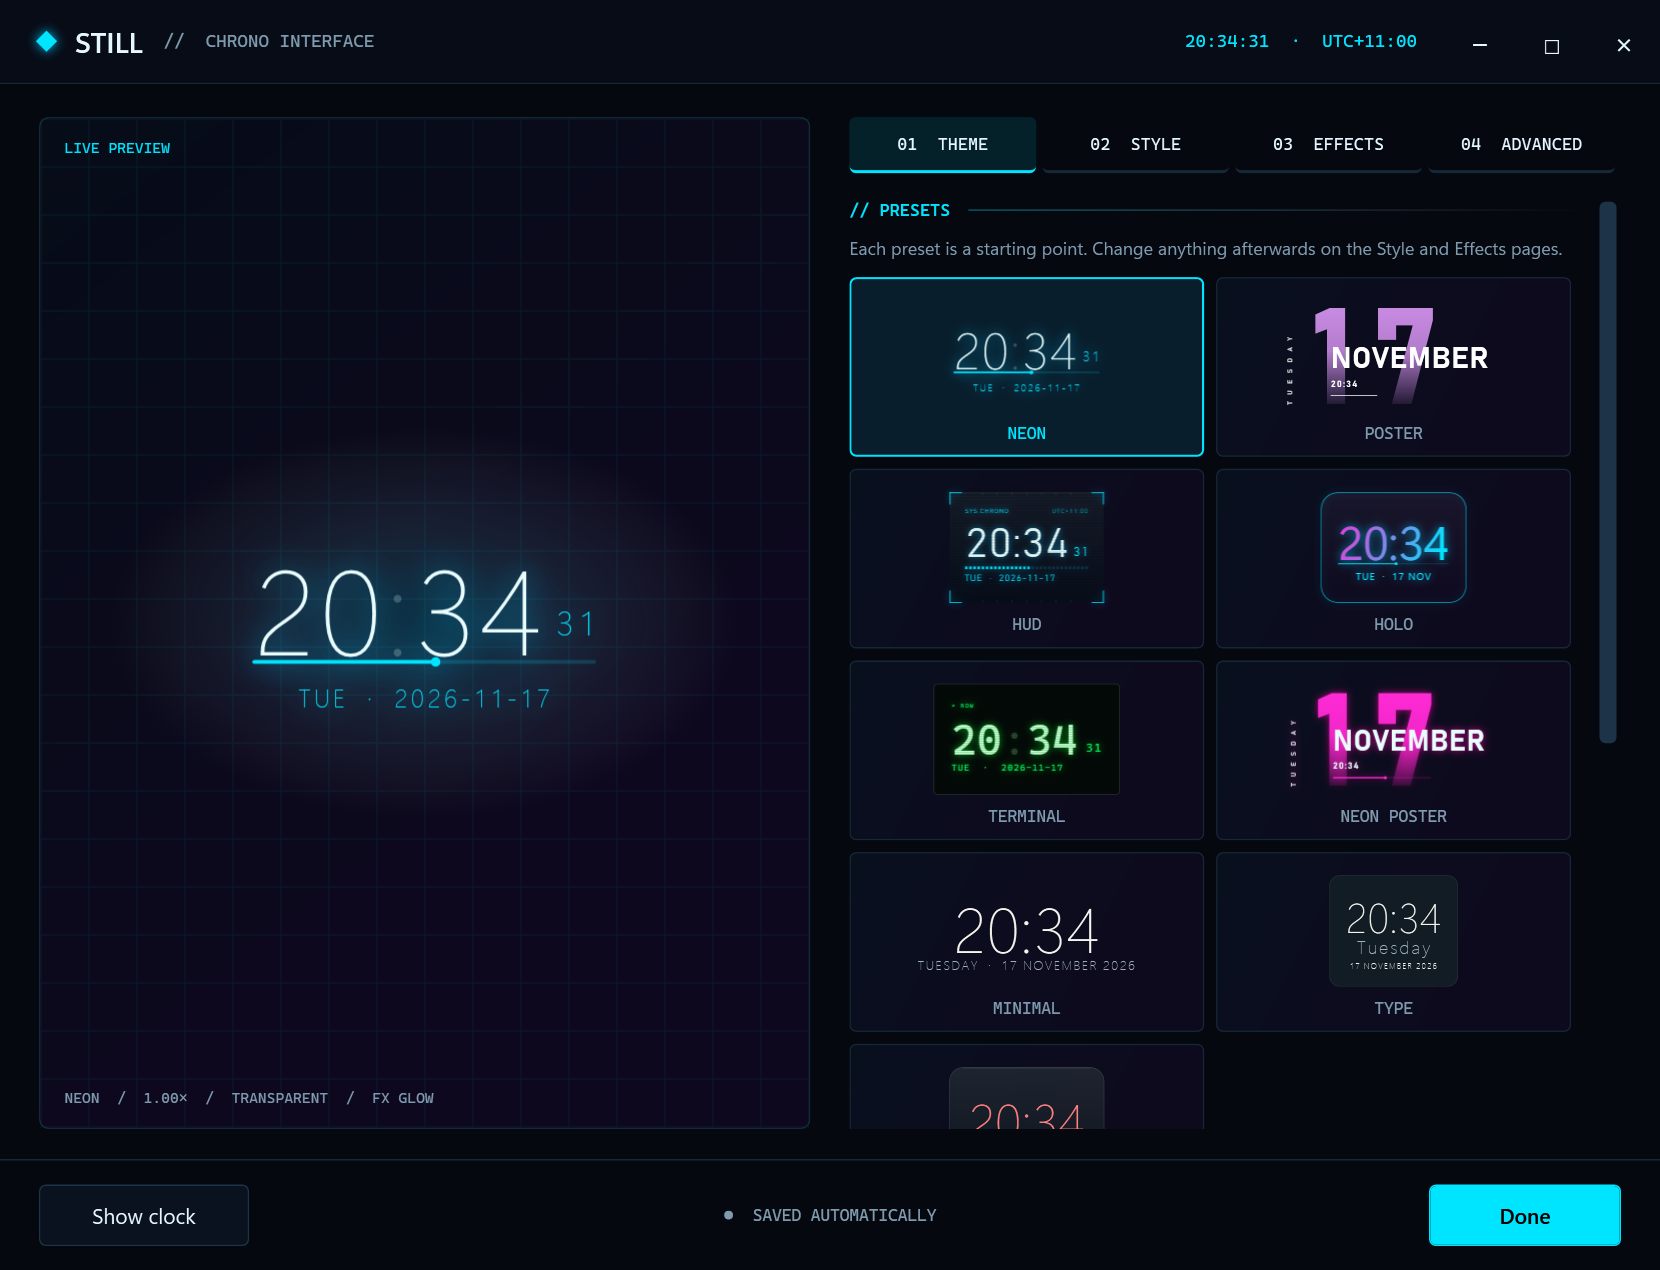
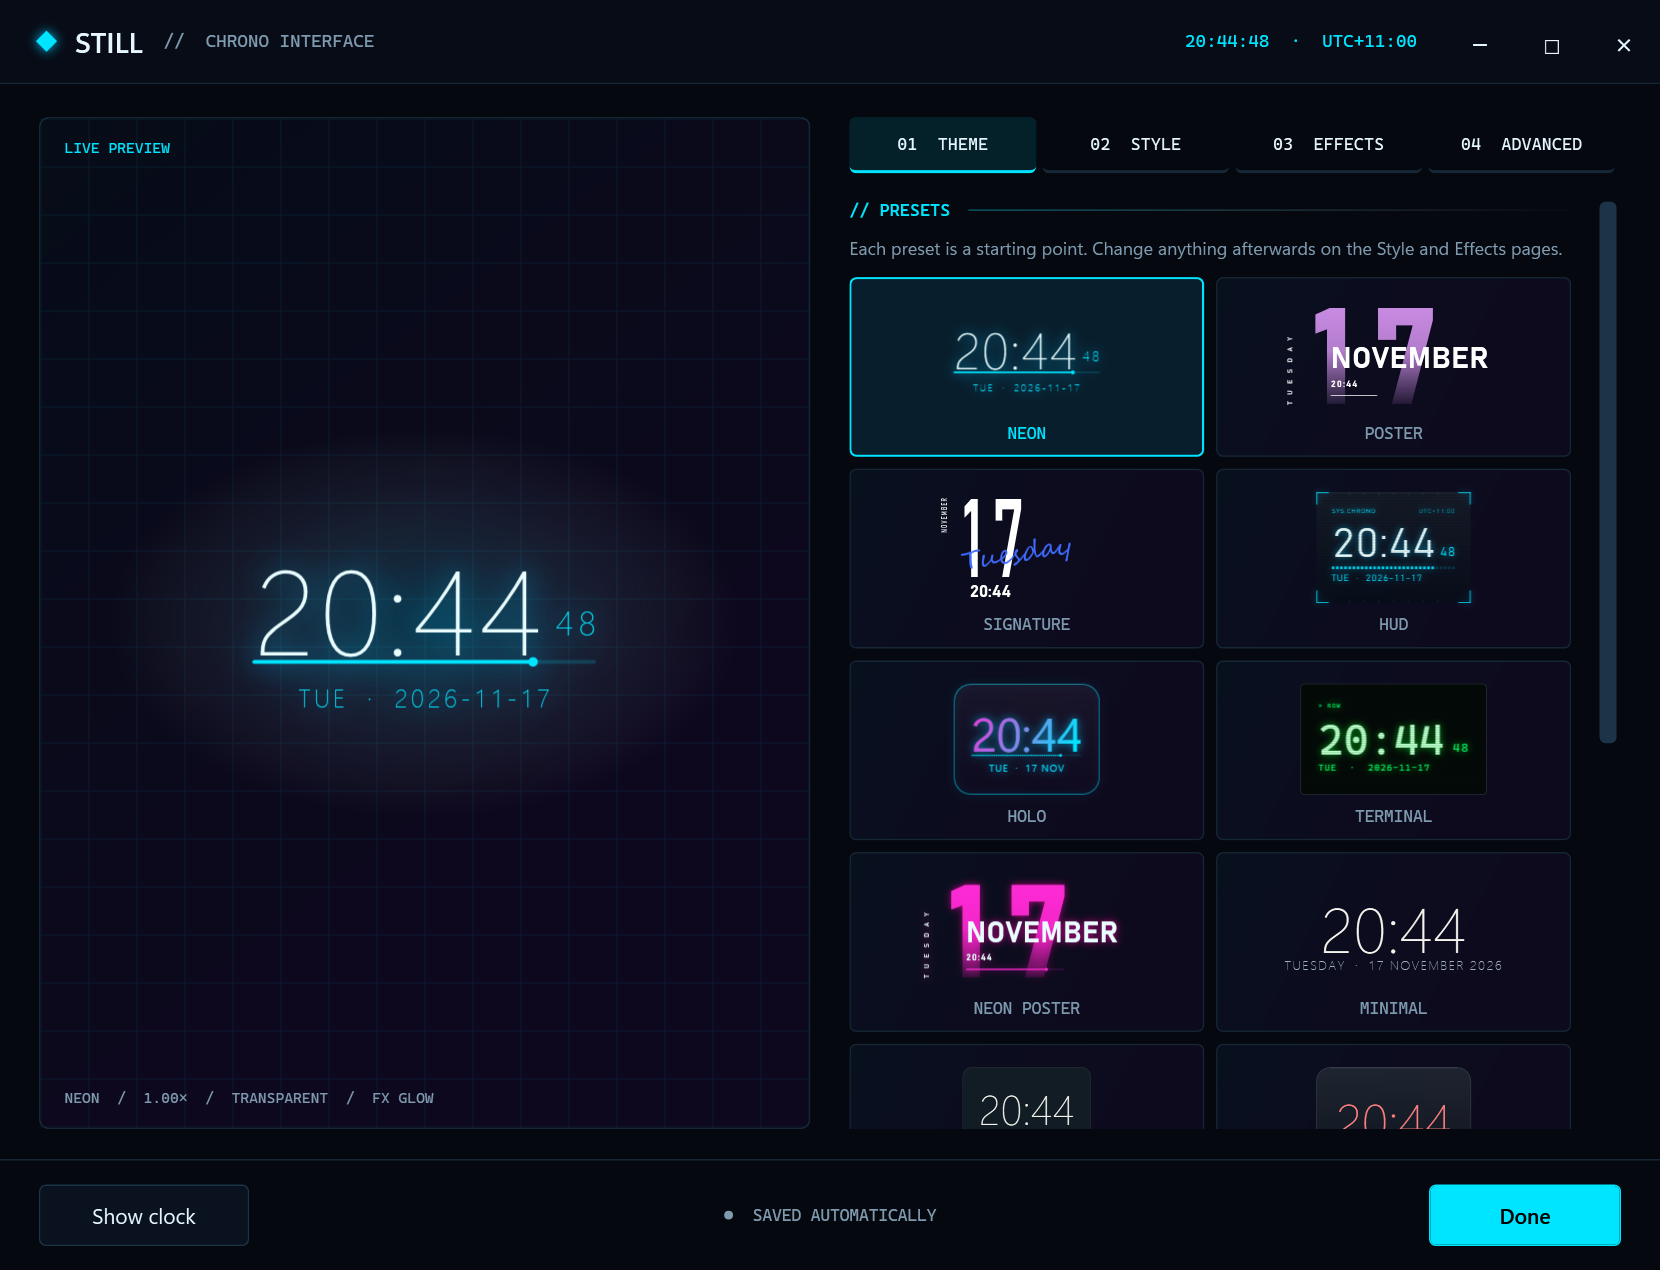
Add Script layout and Signature preset (2.2.0)
- New Script layout: a tall day number narrowed by a horizontal scale (works
  with any font), the month rotated up its side, a handwritten weekday drawn
  across the number at a slight angle, and a bold time centred beneath, with
  an optional seconds indicator under it.
- New ScriptFont and Condense settings, normalized safely, with controls on
  the Style page; handwriting fonts installed with Windows are listed first.
- Add the Signature preset and a test for it; 30 tests pass.
- Bump to 2.2.0; update README, release notes, verification and renders.

diff --git a/src/Still.App/ClockFace.cs b/src/Still.App/ClockFace.cs
@@ -58,9 +58,14 @@ public sealed class ClockFace : FrameworkElement
         }
 
         poster = p.Layout == "Poster" && !p.Advanced;
+        scriptLayout = p.Layout == "Script" && !p.Advanced;
         if (poster)
         {
             y = LayoutPoster(y, culture);
+        }
+        else if (scriptLayout)
+        {
+            y = LayoutScript(y, culture);
         }
         else if (p.Advanced)
         {
@@ -174,6 +179,104 @@ public sealed class ClockFace : FrameworkElement
     private bool poster;
     private string pDay = "", pMonth = "", pTime = "", pWeekday = "";
     private double pY, pNumSize, pNumTop, pNumH, pNumX, pNumExtra, pMonthSize, pMonthX, pMonthY, pTimeSize, pTimeY, pLineY, pLineW, pWkSize, pWkExtra, pWkX, pWkBottom;
+
+    // ---- Script layout: tall condensed day number, vertical month, handwritten weekday, bold time ----
+    private bool scriptLayout;
+    private Typeface scriptFace = new("Segoe Script"), boldFace = new("Segoe UI");
+    private FormattedText? sWeekday, sTime;
+    private string sDay = "", sMonth = "";
+    private double sY, sNumSize, sNumTop, sNumH, sNumX, sNumW, sNumExtra, sMonthSize, sMonthExtra, sMonthX, sMonthBottom,
+        sScriptX, sScriptBase, sTimeCenter, sTimeY, sTimeW, sIndicatorY;
+
+    private FormattedText Text(string s, double size, Brush brush, Typeface face) =>
+        new(s, CultureInfo.CurrentCulture, FlowDirection.LeftToRight, face, size, brush, VisualTreeHelper.GetDpi(this).PixelsPerDip);
+
+    private double LayoutScript(double y, CultureInfo culture)
+    {
+        double s = p.Scale, cond = p.Condense;
+        scriptFace = new Typeface(new FontFamily(p.ScriptFont), FontStyles.Normal, FontWeights.Normal, FontStretches.Normal);
+        boldFace = new Typeface(new FontFamily(p.Font), FontStyles.Normal, FontWeights.Bold, FontStretches.Normal);
+        sY = y;
+        sNumSize = mainSize * 2.7; sNumExtra = -sNumSize * .02;
+        (sNumTop, sNumH) = Ink("8", sNumSize);
+        sDay = now.ToString("dd", CultureInfo.InvariantCulture);
+        sNumW = StableWidth("88", sNumSize, sNumExtra) * cond;
+
+        // Month runs up the left edge, its top level with the top of the number.
+        sMonthSize = mainSize * .21; sMonthExtra = sMonthSize * .1;
+        sMonth = p.Date ? Case(now.ToString("MMMM", culture), culture) : "";
+        double monthLength = StableWidth(sMonth, sMonthSize, sMonthExtra) * cond;
+        double monthReserve = p.Date ? culture.DateTimeFormat.MonthNames.Where(m => m.Length > 0).Max(m => StableWidth(Case(m, culture), sMonthSize, sMonthExtra)) * cond : 0;
+        double column = p.Date ? Glyph("M", sMonthSize, Brushes.White).Height + mainSize * .1 : 0;
+        sMonthX = padding;
+        sMonthBottom = y + monthLength;
+        sNumX = padding + column;
+
+        // Handwritten weekday sweeps across the lower part of the number.
+        double scriptSize = mainSize * .64;
+        sWeekday = p.Weekday ? Text(now.ToString("dddd", culture), scriptSize, Brushes.White, scriptFace) : null;
+        double scriptReserve = p.Weekday ? culture.DateTimeFormat.DayNames.Max(d => Text(d, scriptSize, Brushes.White, scriptFace).WidthIncludingTrailingWhitespace) : 0;
+        // Starts just inside the number and sweeps out to the right, like a signature.
+        sScriptX = sNumX + sNumW * .12;
+        sScriptBase = y + sNumH * .9;
+        double scriptBottom = p.Weekday ? sScriptBase + scriptSize * .3 : y + sNumH;
+
+        // Bold time centred beneath the number.
+        double timeSize = mainSize * .42;
+        string time = TemplateFormatter.CompactTime(now, p, culture).Replace(" ", "");
+        sTime = Text(time, timeSize, Brushes.White, boldFace);
+        sTimeW = Text(TemplateFormatter.CompactTime(new DateTime(2026, 1, 1, 20, 58, 58), p, culture).Replace(" ", "").Replace('2', '8'), timeSize, Brushes.White, boldFace).WidthIncludingTrailingWhitespace;
+        var timeInk = Text("8", timeSize, Brushes.White, boldFace).BuildGeometry(new Point(0, 0)).Bounds;
+        double timeCap = Math.Max(y + sNumH, scriptBottom) + mainSize * .16;
+        sTimeY = timeCap - timeInk.Top;
+        double timeBottom = timeCap + timeInk.Height;
+        sTimeCenter = sNumX + sNumW / 2;
+        sIndicatorY = timeBottom + mainSize * .16;
+
+        // Keep everything inside the padding even with a long weekday or time.
+        double left = Math.Min(Math.Min(sScriptX, sTimeCenter - sTimeW / 2), sMonthX);
+        if (left < padding) { double shift = padding - left; sMonthX += shift; sNumX += shift; sScriptX += shift; sTimeCenter += shift; }
+        double right = Math.Max(Math.Max(sNumX + sNumW, sScriptX + scriptReserve), sTimeCenter + sTimeW / 2);
+        bodyWidth = Math.Max(bodyWidth, right - padding);
+        double bottom = p.SecondsIndicator != "None" ? sIndicatorY + 8 * s : timeBottom;
+        return Math.Max(bottom, y + monthReserve);
+    }
+
+    private void RenderScript(DrawingContext dc, Color text, Color accent, Brush inkBrush)
+    {
+        double cond = p.Condense;
+        Brush numBrush = p.Gradient
+            ? Frozen(new LinearGradientBrush(text, accent, 90) { MappingMode = BrushMappingMode.Absolute, StartPoint = new Point(0, sY), EndPoint = new Point(0, sY + sNumH) })
+            : Frozen(new SolidColorBrush(text));
+        if (p.Fade)
+            dc.PushOpacityMask(new LinearGradientBrush(new GradientStopCollection { new(Colors.Black, 0), new(Color.FromArgb(225, 0, 0, 0), .45), new(Color.FromArgb(28, 0, 0, 0), 1) }, 90)
+            { MappingMode = BrushMappingMode.Absolute, StartPoint = new Point(0, sY), EndPoint = new Point(0, sY + sNumH) });
+        dc.PushTransform(new ScaleTransform(cond, 1, sNumX, 0));
+        DrawStable(dc, sDay, sNumSize, numBrush, sNumX, sY - sNumTop, extra: sNumExtra);
+        dc.Pop();
+        if (p.Fade) dc.Pop();
+
+        if (sMonth.Length > 0)
+        {
+            dc.PushTransform(new RotateTransform(-90, sMonthX, sMonthBottom));
+            dc.PushTransform(new ScaleTransform(cond, 1, sMonthX, sMonthBottom));
+            DrawStable(dc, sMonth, sMonthSize, inkBrush, sMonthX, sMonthBottom, extra: sMonthExtra);
+            dc.Pop(); dc.Pop();
+        }
+        if (sWeekday != null)
+        {
+            sWeekday.SetForegroundBrush(Frozen(new SolidColorBrush(accent)));
+            dc.PushTransform(new RotateTransform(-8, sScriptX, sScriptBase));
+            dc.DrawText(sWeekday, new Point(sScriptX, sScriptBase - sWeekday.Baseline));
+            dc.Pop();
+        }
+        if (sTime != null)
+        {
+            sTime.SetForegroundBrush(Frozen(new SolidColorBrush(text)));
+            dc.DrawText(sTime, new Point(sTimeCenter - sTime.WidthIncludingTrailingWhitespace / 2, sTimeY));
+        }
+        if (p.SecondsIndicator != "None") DrawIndicator(dc, accent, sTimeCenter - sTimeW / 2, sTimeW, sIndicatorY);
+    }
 
     private double LayoutPoster(double y, CultureInfo culture)
     {
@@ -308,6 +411,7 @@ public sealed class ClockFace : FrameworkElement
             }
             if (indicatorY >= 0) DrawIndicator(dc, accent, padding, bodyWidth, indicatorY);
             if (poster) RenderPoster(dc, text, accent, inkBrush, dim);
+            if (scriptLayout) RenderScript(dc, text, accent, inkBrush);
         }
         ink.Effect = p.Glow ? new DropShadowEffect { Color = accent, ShadowDepth = 0, BlurRadius = GlowRadius(), Opacity = .45 + .55 * p.GlowStrength, RenderingBias = RenderingBias.Quality } : null;
 

diff --git a/src/Still.Core/Preferences.cs b/src/Still.Core/Preferences.cs
@@ -5,8 +5,8 @@ namespace Still.Core;
 
 public sealed class Preferences
 {
-    public static readonly string[] Presets = ["Neon", "Poster", "HUD", "Holo", "Terminal", "Neon Poster", "Minimal", "Typography", "Glass"];
-    public static readonly string[] Layouts = ["Classic", "Poster"];
+    public static readonly string[] Presets = ["Neon", "Poster", "Signature", "HUD", "Holo", "Terminal", "Neon Poster", "Minimal", "Typography", "Glass"];
+    public static readonly string[] Layouts = ["Classic", "Poster", "Script"];
     public static readonly string[] Weights = ["Thin", "Light", "Regular", "SemiBold", "Bold"];
     public static readonly string[] Frames = ["None", "Brackets", "Outline"];
     public static readonly string[] Indicators = ["None", "Bar", "Segments", "Dots"];
@@ -27,6 +27,10 @@ public sealed class Preferences
     public string Layout { get; set; } = "Classic";
     /// <summary>Poster layout: fade the big day number towards its base.</summary>
     public bool Fade { get; set; } = true;
+    /// <summary>Script layout: the handwriting font used for the weekday.</summary>
+    public string ScriptFont { get; set; } = "Segoe Script";
+    /// <summary>Script layout: horizontal width of the tall day number (1 = the font's natural width).</summary>
+    public double Condense { get; set; } = .6;
     public string Font { get; set; } = "Segoe UI Variable Display";
     public string FontWeight { get; set; } = "Light";
     public double FontSize { get; set; } = 80;
@@ -88,8 +92,13 @@ public sealed class Preferences
         Seconds = false; Advanced = false;
         Glow = Gradient = Scanlines = BlinkSeparator = ShowZone = false; GlowStrength = .6;
         Frame = "None"; SecondsIndicator = "None"; Caption = ""; Layout = "Classic"; Fade = true;
+        ScriptFont = "Segoe Script"; Condense = .6;
         switch (preset)
         {
+            case "Signature":
+                Layout = "Script"; Font = "Bahnschrift"; FontWeight = "Regular"; TextColor = "#FFFFFF"; AccentColor = "#3F6BFF";
+                Fade = false; Alignment = "Left";
+                break;
             case "Poster":
                 Layout = "Poster"; Font = "Bahnschrift"; FontWeight = "Bold"; TextColor = "#FFFFFF"; AccentColor = "#C98BE3";
                 Alignment = "Left";
@@ -135,6 +144,8 @@ public sealed class Preferences
         Version = 2;
         if (!Presets.Contains(Preset)) Preset = "Minimal";
         if (!Layouts.Contains(Layout)) Layout = "Classic";
+        if (string.IsNullOrWhiteSpace(ScriptFont) || ScriptFont.Length > 150) ScriptFont = "Segoe Script";
+        Condense = Limit(Condense, .35, 1, .6);
         if (string.IsNullOrWhiteSpace(Font) || Font.Length > 150) Font = "Segoe UI Variable Display";
         if (!Weights.Contains(FontWeight)) FontWeight = "Light";
         FontSize = Limit(FontSize, 32, 160, 80);

diff --git a/src/Still.App/SettingsWindow.cs b/src/Still.App/SettingsWindow.cs
@@ -303,8 +303,14 @@ public sealed class SettingsWindow : Window
     {
         Section("Layout");
         Choice("La_yout", Preferences.Layouts, P.Layout, v => P.Layout = v);
-        Note("Poster shows a huge day number with the month across it, the time beneath and the weekday running up the side. Alignment, date format and weekday style apply to Classic.");
-        Check("Fade the poster day number", P.Fade, v => P.Fade = v);
+        Note("Poster: a huge day number with the month across it and the weekday up the side. Script: a tall day number, the month up the side, a handwritten weekday and a bold time. Alignment, date format and weekday style apply to Classic.");
+        Check("Fade the big day number", P.Fade, v => P.Fade = v);
+        var allFonts = Fonts.SystemFontFamilies.Select(f => f.Source).OrderBy(s => s).ToList();
+        string[] scripts = ["Segoe Script", "Ink Free", "Segoe Print", "Gabriola", "Lucida Handwriting", "Brush Script MT", "Mistral"];
+        var scriptChoices = scripts.Where(allFonts.Contains).Concat(allFonts.Where(f => !scripts.Contains(f))).ToList();
+        if (!scriptChoices.Contains(P.ScriptFont)) scriptChoices.Insert(0, P.ScriptFont);
+        Choice("Script _handwriting font", scriptChoices, P.ScriptFont, v => P.ScriptFont = v);
+        Range("Script day-number _width", .35, 1, P.Condense, .05, v => P.Condense = v, "0%");
 
         Section("Typeface");
         var fonts = Fonts.SystemFontFamilies.Select(f => f.Source).OrderBy(s => s).ToList();

diff --git a/tests/Still.Tests/Program.cs b/tests/Still.Tests/Program.cs
@@ -142,6 +142,14 @@ Test("poster layout: presets, normalization and older files", () =>
     var legacy = System.Text.Json.JsonSerializer.Deserialize<Preferences>("{\"Preset\":\"Glass\"}")!; legacy.Normalize();
     Equal("Classic", legacy.Layout);
 });
+Test("script layout: preset, clamped width and safe font fallback", () =>
+{
+    var sig = new Preferences(); sig.ApplyPreset("Signature");
+    Equal("Script", sig.Layout); Equal("Segoe Script", sig.ScriptFont); True(!sig.Fade);
+    var bad = new Preferences { Layout = "Script", Condense = 9, ScriptFont = "" }; bad.Normalize();
+    Equal(1d, bad.Condense); Equal("Segoe Script", bad.ScriptFont);
+    bad.Condense = double.NaN; bad.Normalize(); Equal(.6, bad.Condense);
+});
 Test("poster compact time follows 12/24-hour, seconds and AM/PM", () =>
 {
     var evening = new DateTime(2026, 11, 17, 20, 30, 5);

diff --git a/README.md b/README.md
@@ -6,9 +6,9 @@ Still is an actual borderless WPF desktop widget with a separate settings window
 and notification-area menu. C# / .NET 10 LTS; no web view, server, account,
 telemetry, network calls, plugins, or administrator privileges.
 
-| Poster | Neon Poster |
+| Poster | Signature |
 | --- | --- |
-| ![Poster preset](docs/images/preset-poster.png) | ![Neon Poster preset](docs/images/preset-neon-poster.png) |
+| ![Poster preset](docs/images/preset-poster.png) | ![Signature preset](docs/images/preset-signature.png) |
 | **Neon** | **HUD** |
 | ![Neon preset](docs/images/preset-neon.png) | ![HUD preset](docs/images/preset-hud.png) |
 | **Holo** | **Terminal** |
@@ -37,16 +37,17 @@ For portable use, extract **Still-win-x64.zip** into a permanent folder and run 
 
 Settings has four pages (**Ctrl+1–4**):
 
-- **01 Theme:** a live gallery of all nine presets, one-click colour palettes, theme sharing (**Copy theme** / **Paste theme**) and **Reset to defaults**.
-- **02 Style:** layout (Classic or Poster) and day-number fade, font, weight, size, letter spacing, text and accent colours, time format, seconds, AM/PM, weekday style, date format, uppercase, alignment, scale and widget opacity.
+- **01 Theme:** a live gallery of all ten presets, one-click colour palettes, theme sharing (**Copy theme** / **Paste theme**) and **Reset to defaults**.
+- **02 Style:** layout (Classic, Poster or Script), day-number fade, script font and number width, font, weight, size, letter spacing, text and accent colours, time format, seconds, AM/PM, weekday style, date format, uppercase, alignment, scale and widget opacity.
 - **03 Effects:** neon glow and its strength, gradient text, seconds indicator, blinking separator, frame, header caption, time-zone tag, surface type and tint, surface opacity, corner radius and CRT scanlines.
 - **04 Advanced:** position & startup (lock, click-through, always-on-top, launch at sign-in, display placement) and the optional custom-text template.
 - **Notification-area clock icon:** settings, show/hide, unlock and exit. Windows may put the icon under the up arrow.
 
-### Nine starting points
+### Ten starting points
 
 - **Neon** (default): thin glowing digits, a sweeping seconds bar, a blinking colon and an ISO date.
 - **Poster:** an editorial layout. A huge lavender day number fades out towards its base, the bold month runs across it, the time and a fine underline sit beneath, and the weekday runs up the side.
+- **Signature:** the Script layout. A tall, narrow white day number, the month running up its side, a blue handwritten weekday sweeping across it, and a bold time beneath.
 - **Neon Poster:** the Poster layout in hot magenta with glow, and a seconds bar in place of the underline.
 - **HUD:** a scanlined instrument panel with corner brackets, a `SYS.CHRONO` caption, a UTC offset tag and segmented seconds.
 - **Holo:** magenta-to-cyan gradient digits in an outlined glass card with a dotted seconds track.
@@ -191,7 +192,7 @@ settings round-trips/recovery/write failures and off-screen/mixed-DPI restoratio
 See [verification](docs/VERIFICATION.md) for exact verified and unverified scope.
 
 On Windows, run `Still.exe --capture` from a writable release folder to export
-**actual WPF renders** of all nine presets and settings into `screenshots/` beside
+**actual WPF renders** of all ten presets and settings into `screenshots/` beside
 the executable. This is optional and does not change saved appearance preferences.
 Screenshots do not establish native interaction correctness; use the manual
 Windows checklist as well.

diff --git a/docs/RELEASE-NOTES.md b/docs/RELEASE-NOTES.md
@@ -1,10 +1,10 @@
-Still 2.1.0 adds a Poster layout inspired by editorial date widgets.
+Still 2.2.0 adds a Script layout with a handwritten weekday.
 
-- New Poster layout: a huge day number that fades towards its base, the bold month across it, the time with a fine underline beneath, and the weekday running up the side.
-- Two new presets: Poster (lavender and white) and Neon Poster (hot magenta with glow and a seconds bar).
-- Settings > Style has a new Layout choice (Classic or Poster) and a toggle for the day-number fade. Fonts, colours, palettes, glow, gradient, frames, surfaces and seconds indicators all work with Poster.
+- New Script layout: a tall, narrow day number, the month running up its side, a handwritten weekday sweeping across the number, and a bold time beneath.
+- New Signature preset: white number and time with a blue script weekday.
+- Settings > Style can now choose the handwriting font (Segoe Script, Ink Free, Segoe Print, Gabriola or any installed font) and adjust how narrow the day number is. The day-number fade, colours, palettes, glow, gradient, frames, surfaces and seconds indicators also work with Script.
 
-Existing preferences are kept and stay on the Classic layout until you choose Poster.
+Existing preferences are kept and stay on their current layout until you choose another.
 
 Install: download Still-Setup-win-x64.exe, exit the old Still from its notification-area icon, and run Setup. The installer installs for your Windows user without administrator access and includes .NET. A portable Still-win-x64.zip is also available.
 

diff --git a/docs/VERIFICATION.md b/docs/VERIFICATION.md
@@ -1,3 +1,9 @@
+## Version 2.2.0 Windows validation
+
+- Windows 11 Release build succeeded. All 30 core regression tests passed, including the new Script layout test.
+- `Still.exe --verify` exported actual WPF renders of all ten presets and Settings. The Signature render was visually inspected and is in `docs/images`.
+- Not exercised: drag, the scale grip, and the tray menu with the Script layout, and the installer build.
+
 ## Version 2.1.0 Windows validation
 
 - Windows 11 Release build succeeded. All 29 core regression tests passed, including the new layout and compact-time tests.
